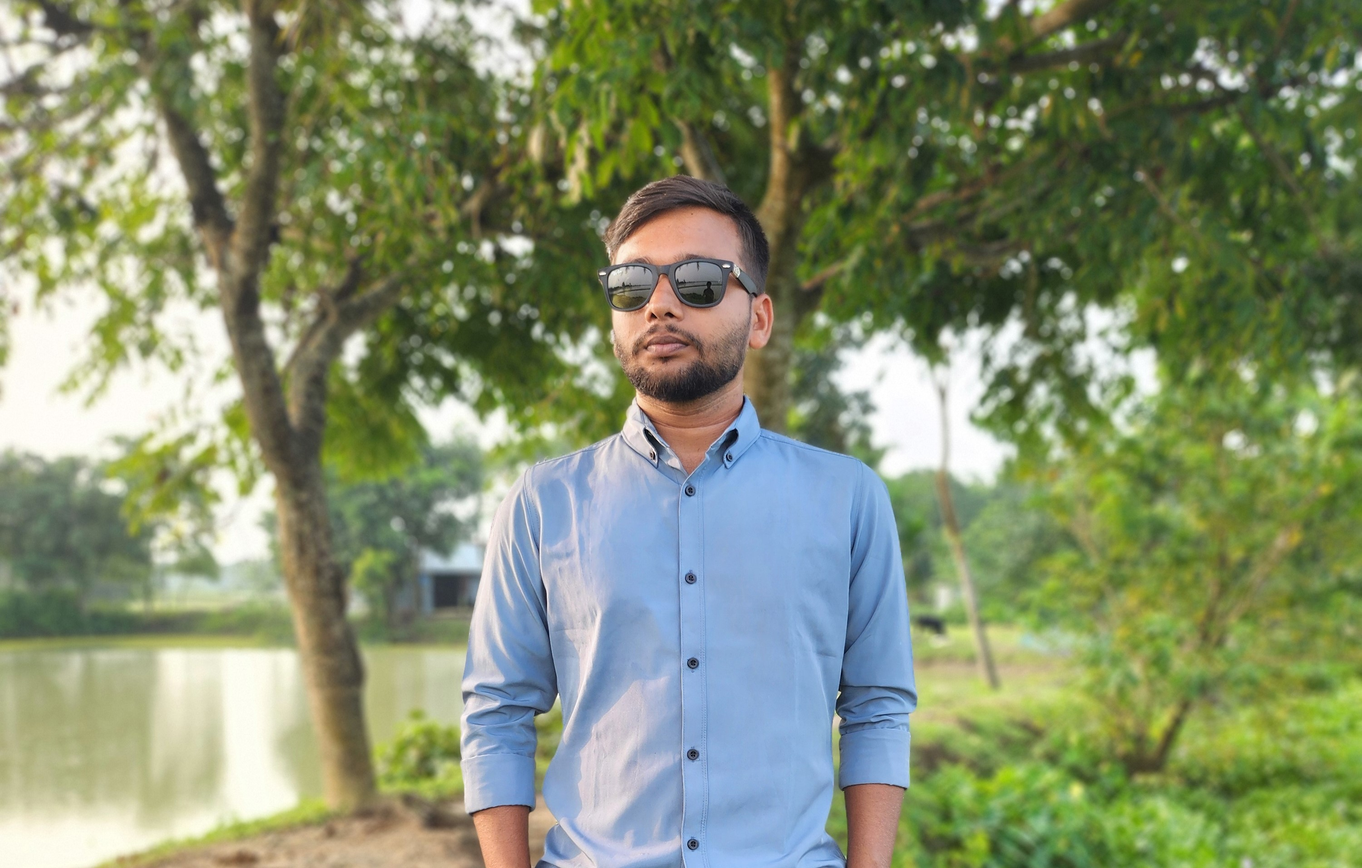
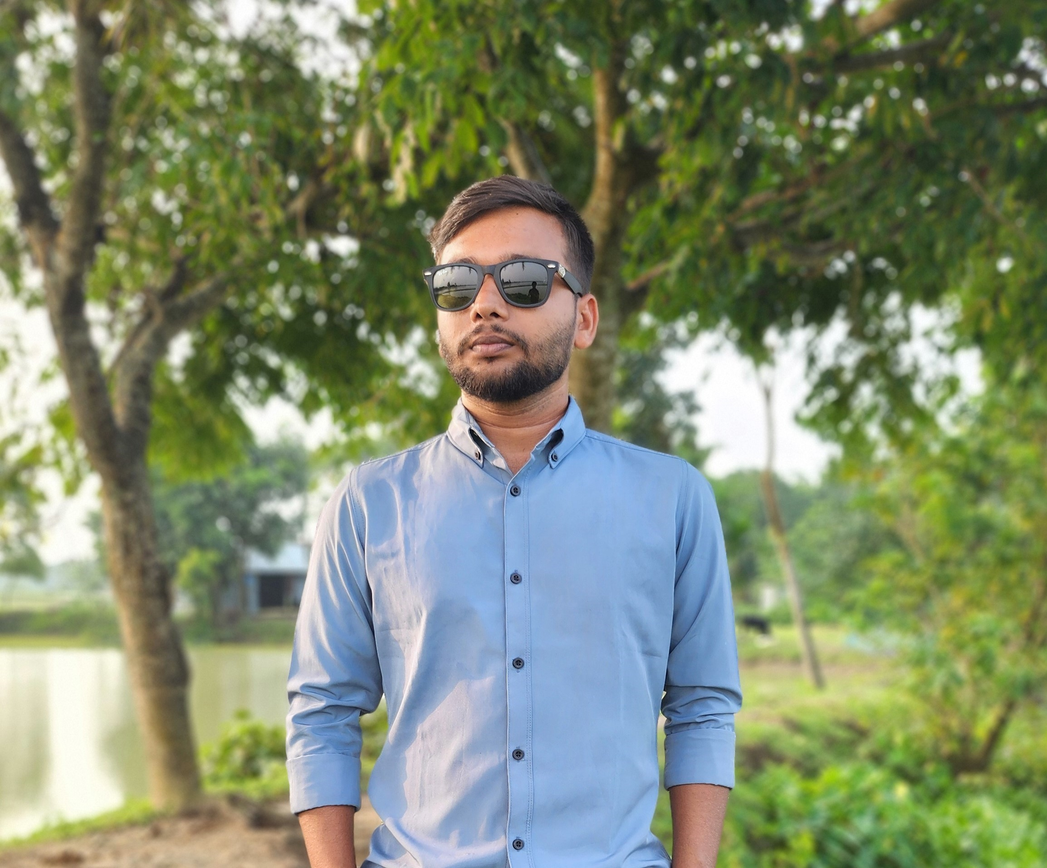
6s  3/4/25 commit you now

diff --git a/src/pages/about.jsx b/src/pages/about.jsx
@@ -4,21 +4,7 @@ import { FaFacebook, FaGithub, FaLinkedin } from "react-icons/fa";
 const About = () => {
   return (
     <section id="about" className="container mx-auto px-4 py-10 text-center">
-      <div className="md:flex">
-        <div className="flex justify-center items-center md:min-h-screen">
-          <div className="relative group">
-            <img
-              src="/portfolio_img-1.jpg"
-              alt="Sample"
-              className="w-full h-auto rounded-full transition-transform duration-300 ease-in-out group-hover:scale-110 group-hover:shadow-xl animate-zoomIn"
-            />
-            <div className="absolute top-0 left-0 w-full h-full bg-opacity-50 opacity-0 group-hover:opacity-100 transition-opacity duration-300 ease-in-out flex justify-center items-center">
-              <p className="text-indigo-600 text-2xl font-semibold">
-                Rikto Dey Lokon
-              </p>
-            </div>
-          </div>
-        </div>
+      <div className="md:flex items-center">
         <div className="p-20">
           <div>
             <h2 className="text-3xl font-semibold text-indigo-600">About Me</h2>
@@ -50,6 +36,20 @@ const About = () => {
             >
               Contact Me
             </a>
+          </div>
+        </div>
+        <div className="flex justify-center items-center md:min-h-screen">
+          <div className="relative group">
+            <img
+              src="/portfolio_img-1.jpg"
+              alt="Sample"
+              className="w-full h-auto rounded-full transition-transform duration-300 ease-in-out group-hover:scale-110 group-hover:shadow-xl animate-zoomIn"
+            />
+            <div className="absolute top-0 left-0 w-full h-full bg-opacity-50 opacity-0 group-hover:opacity-100 transition-opacity duration-300 ease-in-out flex justify-center items-center">
+              <p className="text-white text-2xl font-semibold">
+                Rikto Dey Lokon
+              </p>
+            </div>
           </div>
         </div>
       </div>
